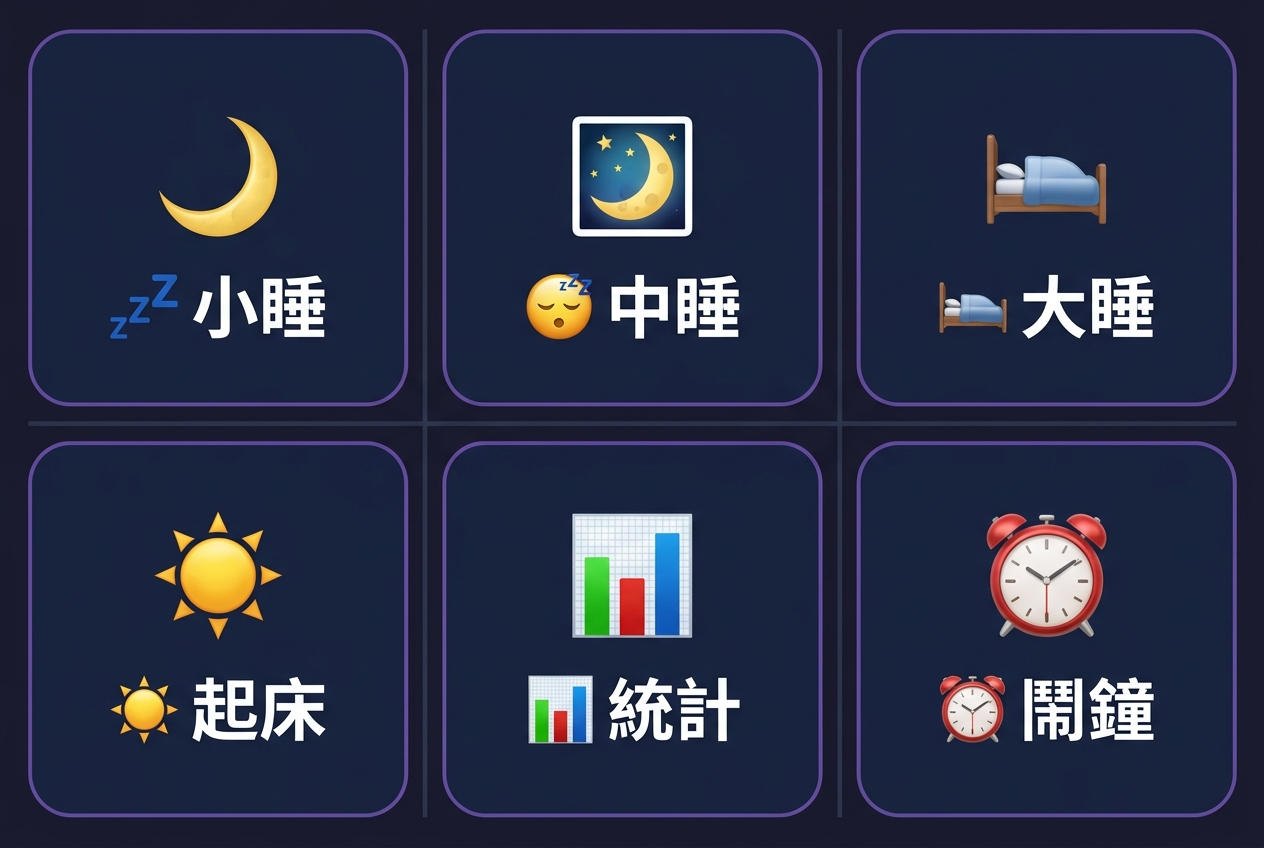
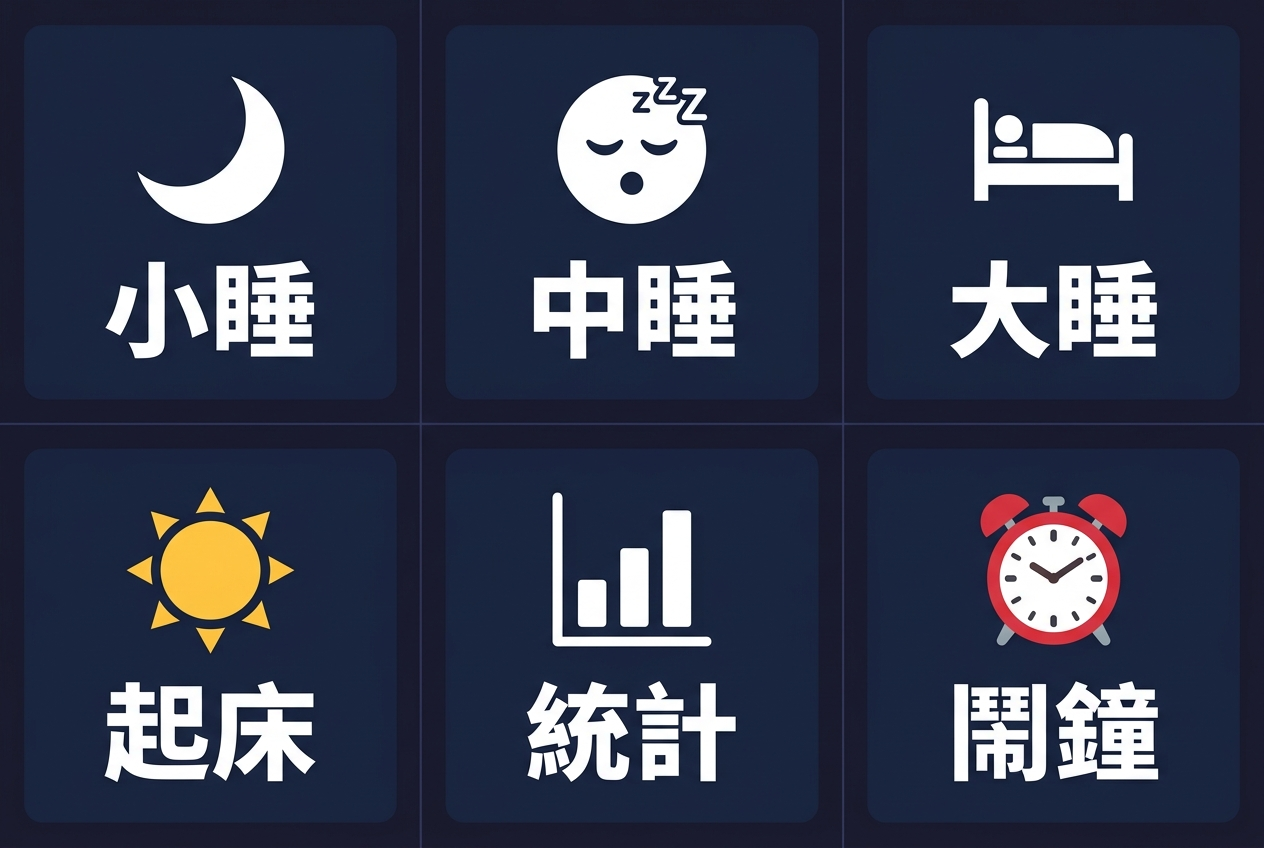
feat: auto-detect sleep type by actual duration (≤90m=小睡, ≤5h=中睡, else=大睡)

diff --git a/app.py b/app.py
@@ -189,9 +189,22 @@ def _calc_from_duration(now: datetime, total_minutes: int):
     return h, m, wake
 
 
+def _auto_sleep_type(total_minutes: int) -> str:
+    """根據實際睡眠時長自動判斷類型"""
+    if total_minutes <= 90:
+        return "小睡"
+    elif total_minutes <= 300:
+        return "中睡"
+    else:
+        return "大睡"
+
+
 def _start_sleep_and_reply(token, user_id, now, sleep_type, hours, minutes, wake_dt):
-    """統一的「開始睡眠＋建立回覆」邏輯"""
-    s_info = SLEEP_TYPES.get(sleep_type, SLEEP_TYPES["大睡"])
+    """統一的「開始睡眠＋建立回覆」邏輯，類型由實際時長自動決定"""
+    # 永遠根據實際時長自動判斷類型
+    total_min = hours * 60 + minutes
+    sleep_type = _auto_sleep_type(total_min)
+    s_info = SLEEP_TYPES[sleep_type]
     wake_str = wake_dt.strftime("%H:%M")
     start_sleep(user_id, now.isoformat(), sleep_type=sleep_type, target_wake=wake_str)
     set_alarm(user_id, wake_str)
@@ -204,7 +217,7 @@ def _start_sleep_and_reply(token, user_id, now, sleep_type, hours, minutes, wake
         minutes=minutes,
     )
     reply(token, FlexMessage(
-        alt_text=f"{s_info['emoji']} 已開始{sleep_type}，{wake_str} 叫你起床",
+        alt_text=f"{s_info['emoji']} 已開始{sleep_type}（{hours}h{minutes:02d}m），{wake_str} 叫你起床",
         contents=FlexContainer.from_dict(flex),
     ))
 